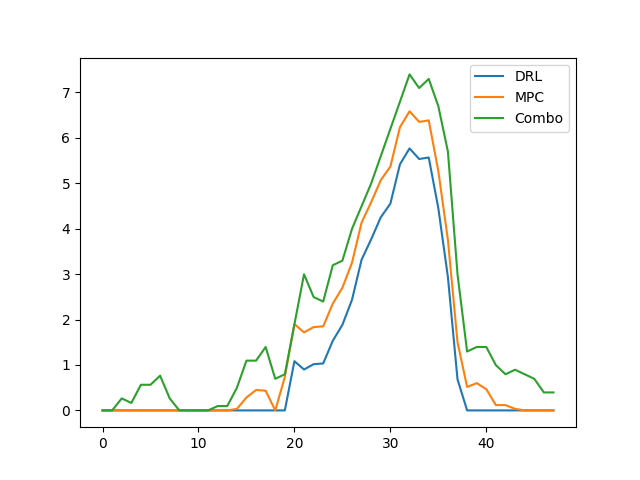
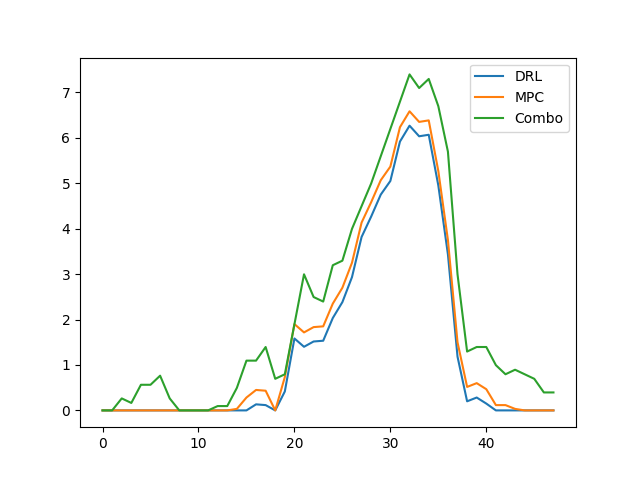
Fixes

Changed region(s): [[0.4375, 0.25, 0.6875, 0.8438], [0.6875, 0.4375, 0.7812, 0.875], [0.375, 0.8438, 0.4375, 0.875]]

diff --git a/DRL/plot_gen.py b/DRL/plot_gen.py
@@ -4,13 +4,14 @@ from tqdm import tqdm
 import matplotlib.pyplot as plt
 import math
 import argparse
+import numpy as np
 
 my_parser = argparse.ArgumentParser()
 my_parser.add_argument('-m', '--mpc', action='store_true', help="Also generate mpc plot results.")
 my_parser.add_argument('-c', '--combo', action='store_true', help="Also generate combo plot results.")
 args = my_parser.parse_args()
 mpc = vars(args)['mpc']
-combo = vars(args)['mpc']
+combo = vars(args)['combo']
 
 NUM_ZONES = 7
 all_weather = []
@@ -56,7 +57,7 @@ for i in tqdm(range(0, len(all_weather), 6)):
 	
 
 	for j in range(NUM_ZONES):
-		temp_now = all_temps[j] - 273.15 - 5
+		temp_now = all_temps[j] - 273.15 - 4.5
 		if mpc: temp_now_mpc = all_temps_mpc[j] - 273.15
 		if combo: temp_now_combo = all_temps_combo[j] - 273.15
 
@@ -88,7 +89,7 @@ for i in tqdm(range(0, len(all_weather), 6)):
 				zone_temp_diffs_combo[j].append(0)
 
 
-
+# pu.db
 for i, zone_temp in enumerate(zone_temps):
 	plt.plot(zone_temp, label = "DRL")
 	# plt.savefig("results/figs/temp_"+str(i + 1)+".png")
@@ -151,3 +152,89 @@ for i, zone_temp in enumerate(zone_temps):
 	plt.legend()
 	plt.savefig("results/figs/rmse_"+str(i + 1)+".png")
 	plt.clf()
+
+zone_temps = np.array(zone_temps)
+zone_temp_diffs = np.array(zone_temp_diffs)
+
+if mpc:
+	zone_temps_mpc = np.array(zone_temps_mpc)
+	zone_temp_diffs_mpc = np.array(zone_temp_diffs_mpc)
+
+if combo:
+	zone_temps_combo = np.array(zone_temps_combo)
+	zone_temp_diffs_combo = np.array(zone_temp_diffs_combo)
+
+zone_temp_avg = list(sum(zone_temps)/7)
+zone_temp_diffs_avg = list(sum(zone_temp_diffs)/7)
+
+if mpc:
+	zone_temp_avg_mpc = list(sum(zone_temps_mpc)/7)
+	zone_temp_diffs_avg_mpc = list(sum(zone_temp_diffs_mpc)/7)
+
+if combo:
+	zone_temp_avg_combo = list(sum(zone_temps_combo)/7)
+	zone_temp_diffs_avg_combo = list(sum(zone_temp_diffs_combo)/7)
+
+plt.plot(zone_temp_avg, label = "DRL")
+# plt.savefig("results/figs/temp_"+str(i + 1)+".png")
+if mpc:
+	plt.plot(zone_temp_avg_mpc, label = "MPC")
+if combo:
+	plt.plot(zone_temp_avg_combo, label = "Combo")
+		
+plt.legend()
+plt.savefig("results/figs/temp_avg.png")
+plt.clf()
+
+
+plt.plot(zone_temp_diffs_avg, label = "DRL")
+# plt.savefig("results/figs/power_"+str(i + 1)+".png")
+if mpc:
+	plt.plot(zone_temp_diffs_avg_mpc, label = "MPC")
+if combo:
+	plt.plot(zone_temp_diffs_avg_combo, label = "Combo")
+plt.legend()
+plt.savefig("results/figs/power_avg.png")
+plt.clf()
+
+
+rmse_here_avg = []
+positions = [x - 0.2 for x in range(1, 9)]
+positions_mpc = [x for x in range(1, 9)]
+positions_combo = [x + 0.2 for x in range(1, 9)]
+
+for j in range(0, len(zone_temp_avg), 6):
+	here_chunk = zone_temp_diffs_avg[j : j + 6]
+	here_chunk_sq = [x*x for x in here_chunk]
+	mean_here = sum(here_chunk_sq) / 6
+	rmse = mean_here ** 0.5
+	rmse_here_avg.append(rmse)
+
+if mpc:
+	rmse_here_avg_mpc = []
+	for j in range(0, len(zone_temp_avg_mpc), 6):
+		here_chunk_mpc = zone_temp_diffs_avg_mpc [j : j + 6]
+		here_chunk_sq_mpc = [x*x for x in here_chunk_mpc]
+		mean_here_mpc = sum(here_chunk_sq_mpc) / 6
+		rmse_mpc = mean_here_mpc ** 0.5
+		rmse_here_avg_mpc.append(rmse_mpc)
+
+if combo:
+	rmse_here_avg_combo = []
+	for j in range(0, len(zone_temp_avg_combo), 6):
+		here_chunk_combo = zone_temp_diffs_avg_combo [j : j + 6]
+		here_chunk_sq_combo = [x*x for x in here_chunk_combo]
+		mean_here_combo = sum(here_chunk_sq_combo) / 6
+		rmse_combo = mean_here_combo ** 0.5
+		rmse_here_avg_combo.append(rmse_combo)
+
+plt.bar(positions, rmse_here_avg, label = "DRL", width = 0.2)
+# plt.savefig("results/figs/rmse_"+str(i + 1)+".png")
+if mpc:
+	plt.bar(positions_mpc, rmse_here_avg_mpc, label = "MPC", width = 0.2)
+if combo:
+	plt.bar(positions_combo, rmse_here_avg_combo, label = "Combo", width = 0.2)
+
+plt.legend()
+plt.savefig("results/figs/rmse_avg.png")
+plt.clf()
